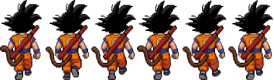
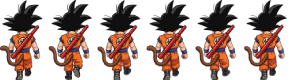
Añadir imágenes de Goku y textos de pruebas para el juego, mejorando la experiencia del usuario.

diff --git a/styles.css b/styles.css
@@ -187,14 +187,13 @@ button:focus-visible { outline: 3px solid white; outline-offset: 3px; }
   z-index: 6;
   bottom: calc(env(safe-area-inset-bottom) + 50px);
   left: 50%;
-  width: 65px;
+  width: 73px;
   height: 120px;
   transform: translateX(-50%);
   background-image: url("images/goku-run.png");
   background-repeat: no-repeat;
   background-position: 0 0;
-  background-size: 600% 100%;
-  image-rendering: pixelated;
+  background-size: auto 100%;
   filter: drop-shadow(0 5px 2px rgba(44, 49, 28, .34));
   pointer-events: none;
 }
